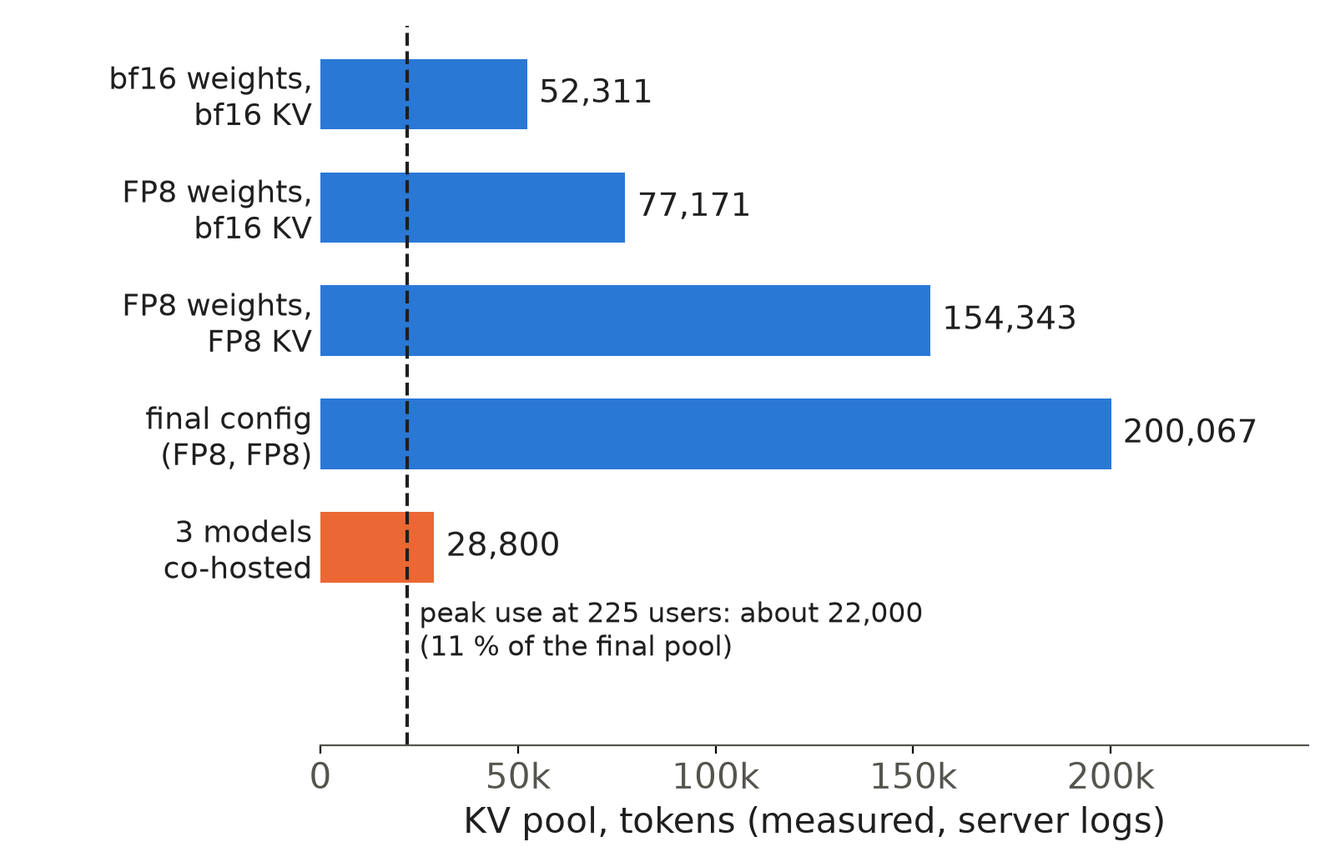
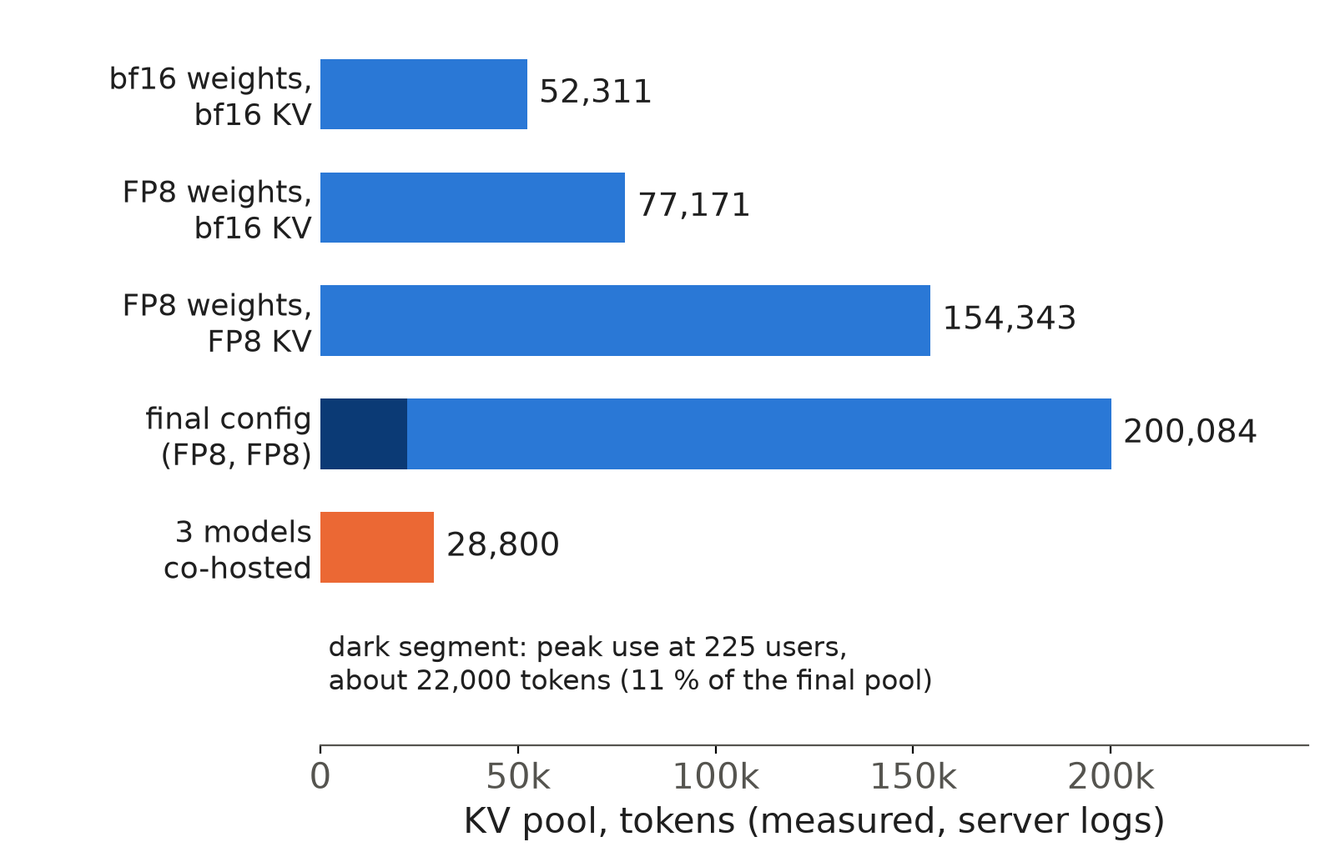
Sync revised lessons 01-03 (review fixes); sync strips the repo-ids comment

Changed region(s): [[0.25, 0.6769, 0.7188, 0.8], [0.2188, 0.4615, 0.3125, 0.5538], [0.9062, 0.4615, 0.9375, 0.5231]]

diff --git a/src/content/posts/llm-serving-bench/01-anatomy-of-one-l4.md b/src/content/posts/llm-serving-bench/01-anatomy-of-one-l4.md
@@ -9,11 +9,9 @@ project: llm-serving-bench
 tags: [l4, sglang, qwen3-4b, kv-cache, capacity, fp8]
 ---
 
-## 1. Motivation
+One NVIDIA L4 is the unit of this series: cost per user is its hourly price divided by its users. Here we show what the card holds when SGLang serves Qwen3-4B-Instruct-2507, and how many users it carries.
 
-One NVIDIA L4 is the unit of this series, and the cost per user is its hourly price divided by its users. Here we show what the card holds in memory when SGLang serves Qwen3-4B-Instruct-2507, and how many users it carries. Two of the user counts look comparable and are not (Section 4.4).
-
-## 2. Key results
+## Key results
 
 | | first baseline | final configuration |
 |---|---|---|
@@ -27,9 +25,9 @@ One NVIDIA L4 is the unit of this series, and the cost per user is its hourly pr
 
 At 225 users the pool peaked at 11 % full and about 2 requests were in flight, against 4.5 for the baseline. The jump from 16 to 225 is mostly a workload change.
 
-## 3. What the card holds
+## 1. What the card holds
 
-### 3.1 Bytes per token
+### 1.1 Bytes per token
 
 A serving GPU holds the weights, the KV cache (one key and one value vector per layer for every token a request has seen) and working memory. With round numbers, a 24 GB card with 8 GB of weights and 4 GB of working memory leaves 12 GB for the cache: 120,000 tokens at 100 KiB each, 240,000 at 50 KiB.
 
@@ -48,9 +46,9 @@ def kv_bytes_per_token(config_path: str, kv_bytes: int = 2) -> int:
     return cfg["num_hidden_layers"] * kv_heads * head_dim * 2 * kv_bytes   # 2 = K and V
 ```
 
-For Qwen3-4B: 36 layers x 8 KV heads x 128 x 2 x 2 bytes = 144 KiB per token in bf16, 72 KiB in FP8 (computed). A request of our mean size, 2,004 prompt and 96 answer tokens, holds about 155 MB of FP8 cache (computed).
+For Qwen3-4B: 36 layers x 8 KV heads x 128 x 2 x 2 bytes = 144 KiB per token in bf16, 72 KiB in FP8 (computed). A request of our mean size, 2,004 prompt and 96 answer tokens, holds about 155 MB (148 MiB) of FP8 cache (computed).
 
-### 3.2 The split, read from the log
+### 1.2 The split, read from the log
 
 SGLang logs each allocation at start. With our final flags:
 
@@ -82,19 +80,19 @@ The log's "GB" is GiB: 52,311 tokens x 147,456 bytes = 7.18 GiB, exactly the K p
 
 *Figure 1. Memory of one L4, from the start-up logs. "Other" is the pool step beyond K and V, unnamed gaps and CUDA graphs.*
 
-FP8 frees 3.4 GiB of weights and halves the bytes per token. The pool step also takes 2.14 GiB (bf16) and 2.05 GiB (FP8) beyond K and V, and the log does not say for what.
+FP8 frees 3.4 GiB of weights and halves the bytes per token. The pool step also takes 2.14 GiB (bf16) and 2.05 GiB (FP8) beyond K and V, which the log does not name.
 
-### 3.3 How the pool grew
+### 1.3 How the pool grew
 
-The pool grew 3.8 times. In a feasibility test FP8 weights gave 77,171 tokens and an FP8 cache on top 154,343. No measurement explains the last step to about 200,000. Our reading, not tested: the bf16 log with a 4,096-token chunk still had 4.76 GiB free after the pool step, the FP8 log with a 256-token chunk only 1.73 GiB, so a smaller chunk seems to let SGLang reserve less working memory. A manual memory fraction did not help: 0.8 changed nothing, 0.85 ran out of memory (bf16).
+The pool grew 3.8 times. In a feasibility test FP8 weights gave 77,171 tokens and an FP8 cache on top 154,343. A probe that changed only the prefill chunk, 4,096 to 256 tokens, raised SGLang's automatic memory fraction from 0.684 to 0.827 and the pool from 154,343 to 199,770 (measured). Our reading, not tested: a smaller chunk needs less working memory, so SGLang reserves less. A manual memory fraction did not help: 0.8 did not change attainment, 0.85 ran out of memory (bf16).
 
 The pool is not the limit: 200,000 tokens hold 95 requests of the mean size, but at 225 users at most 9 ran at once.
 
-## 4. How many users
+## 2. How many users
 
-### 4.1 The pass rule
+### 2.1 The pass rule
 
-A request counts when its time to first token (TTFT, mostly prompt prefill) and its time per output token (TPOT) both stay inside a tier. Rag and code get twice the TTFT limit.
+A request counts when its time to first token (TTFT, mostly prompt prefill) and its time per output token (TPOT) both stay inside a tier. Rag (questions over retrieved documents) and code get twice the TTFT limit.
 
 | tier | TTFT chat | TTFT rag, code | TPOT |
 |---|---|---|---|
@@ -102,7 +100,7 @@ A request counts when its time to first token (TTFT, mostly prompt prefill) and 
 | standard | 1.0 s | 2.0 s | 50 ms |
 | relaxed | 2.0 s | 4.0 s | 100 ms |
 
-Attainment is the share of all requests, failures included, that meet both limits. A level passes at 0.90; with three seeds, mean minus sd must reach 0.90.
+Attainment is the share of all requests, failures included, that meet both limits. A level passes at 0.90; with three seeds (runs with different random request streams), mean minus standard deviation (sd) must reach 0.90.
 
 A user is a closed loop: send a turn, read the answer (response time R), think for a time Z, repeat. Little's law links users U to requests in flight C:
 
@@ -114,9 +112,9 @@ C = 4, R = 2 s, Z =  10 s  ->  U = 4 x  12 / 2 =  24
 
 The same 4 requests in flight serve 204 or 24 users (hypothetical numbers): a user count needs its think time.
 
-### 4.2 How we measure
+### 2.2 How we measure
 
-No standard benchmark tool runs closed-loop users with think time and scores SLO tiers, so a custom script is needed:
+No standard tool runs closed-loop users with think time and scores SLO tiers, so a custom script is needed:
 
 ```python
 async def user(server, think_time, record):
@@ -140,9 +138,9 @@ def attainment(records, tier, warmup_s, window_s):
     return len(ok) / len(window)                   # failures count as misses
 ```
 
-The staggered start matters: without it, a 0.6B model scored 30 users at strict instead of 104. We score requests sent in a window of at least 600 s after a warm-up, 300 to 1,400 requests per level.
+The staggered start matters: without it, a 0.6B model scored 30 users at strict instead of 104. Scoring windows follow a warm-up: 600 s with about 290 to 1,300 requests per level in the final runs, 300 s with 116 requests at 16 users in the baseline.
 
-### 4.3 Two edges: 16 and 225
+### 2.3 Two edges: 16 and 225
 
 ![SLO attainment against users. Left, bf16, synthetic load, 30 s think time: standard 0.966 at 16 users, 0.699 at 17. Right, FP8, assistant mix: standard 0.906 at 225 users, 0.886 at 260; strict never reaches 0.90.](./figures/01_slo_vs_users.png)
 
@@ -150,56 +148,50 @@ The staggered start matters: without it, a 0.6B model scored 30 users at strict 
 
 The baseline ran bf16 with Triton attention on a synthetic load: 1,000 prompt and 250 output tokens, one turn per user, Z = 30 s. Standard passed at 16 users. Strict served 0, because one request alone had a TPOT of about 31 ms. Relaxed passes at 28 users (0.948); our first write-up said 30, but 0.897 at 30 users misses the rule at three decimals.
 
-The final configuration adds FP8, a prefill chunk of 256 tokens, FlashInfer and mixed chunks; the assistant mix is multi-turn chat, rag and code with lengths from public traces. Think time is a lognormal fitted to request gaps in a public trace: median 116 s (raw trace median 103 s), mean 351.5 s, cut at 3,600 s. At 225 users standard is 0.906 ± 0.017, so mean minus sd is 0.889: borderline. At 260 it fails (0.886 ± 0.021); 240 was never run. Strict fails even at 150 users (0.752).
+The final configuration adds FP8, a prefill chunk of 256 tokens, FlashInfer attention kernels and mixed chunks (prefill chunks batched with decode); the assistant mix is multi-turn chat, rag and code with lengths from public traces. Think time is a lognormal fitted to request gaps in a public trace: median 116 s (raw trace median 103 s), mean 351.5 s, cut at 3,600 s. At 225 users standard is 0.906 ± 0.017, so mean minus sd is 0.889: borderline. At 260 it fails (0.886 ± 0.021); 240 was never run. Strict fails even at 150 users (0.752).
 
-### 4.4 From 16 to 225 is a change of workload
+### 2.4 From 16 to 225 is a change of workload
 
 Five things changed: precision, engine flags, prompts (1,000 tokens to a mean of 2,004), answers (250 to a mean of 96) and mean think time (30 s to 351.5 s). By Little's law, users per request in flight are (R + Z) / R (computed). The baseline had R = 11 s and Z = 30 s, so 3.7. At the final edge about 2 requests were in flight (measured 1.7 to 2.2), so R = 2 x 351.5 / (225 - 2) = 3.2 s and each request stands for about 112 users.
 
-Changing Z alone at R = 11 s multiplies that by 8.9; changing R alone at Z = 30 s, by 2.8. Think time accounts for about 9 to 11 times, the shorter response time for about 3. FP8, chunked prefill and shorter answers all shortened R, and these runs cannot separate them.
+Changing Z alone at R = 11 s multiplies that by 8.8; changing R alone at Z = 30 s, by 2.8. Think time accounts for about 9 to 11 times, the shorter response time for about 3. FP8, chunked prefill and shorter answers all shortened R, and these runs cannot separate them.
 
-The clean split needs bf16 on the assistant mix, which we lack. The one run, at U = 214, scored 0.416 at standard but never reached steady state (think times not cut, all users started together, a load-generator bug fixed later) and was not re-run.
+The clean split needs bf16 on the assistant mix, which we lack. The one run, at U = 214, scored 0.416 at standard but never reached steady state (uncut think times and a simultaneous start, a load-generator bug fixed later) and was not re-run.
 
-### 4.5 What sets the edge at 225
+### 2.5 What sets the edge at 225
 
-The misses are first-token misses. In one seed at 225 users, 13 of 15 standard misses were TTFT-only and 9 came from prompts of 4k tokens or more. Over three seeds, standard scored 0.92 for prompts under 1k tokens, 0.94 for 1-3k and 0.79 for 3k or more. With no long prefill pending, about 2 % of requests missed, against 16-58 % with one pending. That is a correlation; head-of-line blocking by long prefills is our reading. The GPU was 78 % busy.
+The misses are first-token misses. In one earlier run at 225 users (standard 0.956), 13 of 15 standard misses were TTFT-only, 9 came from prompts of 4k tokens or more, and the GPU was 78 % busy. In runs at 150 to 300 users, 2 to 3 % of requests missed with no long prefill pending, against 16-58 % with one pending. That is a correlation; head-of-line blocking (short requests queued behind a long prefill) is our reading. Over the three seeds at 225, standard scored 0.92 for prompts under 1k tokens, 0.94 for 1-3k and 0.79 for 3k or more.
 
-With the baseline's 4,096-token chunk, long prefills also stalled decode: inter-token gap p99 about 230 ms, median 41 ms. Strict fails on both latencies: 4k+ prompts (13 % of requests) need 0.83-1.36 s of TTFT on an empty L4, and TPOT p90 under load is 32-35 ms.
+In the baseline, each 1,000-token prefill also paused decode: inter-token gap p99 about 230 ms, median 41 ms. Strict fails on both latencies: 4k+ prompts (13 % of requests) need 0.83-1.36 s of TTFT on an empty L4, and TPOT p90 under load is 32-35 ms.
 
-## 5. Limits
+## 3. Limits
 
 - The edge rests on 3 seeds at 225 and 260 users; 240 was never measured.
-- The bf16 baseline is one seed on a synthetic workload with an older load generator; no verified bf16 result exists on the assistant mix.
+- The bf16 baseline is one seed on a synthetic workload with an older load generator.
 - User counts depend on the think-time model, fitted from gaps between requests because no trace records think time.
 - The price is an assumption: 0.80 USD is the GPU alone, about 1.1 USD adds the container's CPU and memory.
-- The automatic memory fraction was not recorded.
 - The three-seed runs used two cloud platforms; parity was checked with two fixed-concurrency probes (TPOT 33.6 against 33.9 ms at C = 1), not a load run.
 
-## 6. Reproduce
+## 4. Reproduce
 
-Final edge: run 24a, 3 seeds at U=225, about 40 minutes of one L4, about $0.7 (estimate). Server as in Section 3.2, load as in Section 4.2, 10-minute levels.
+Our runs, September and October 2026, on one NVIDIA L4 (24 GB): Qwen3-4B-Instruct-2507 in bf16 and its FP8 checkpoint, SGLang 0.5.20 for the final runs.
 
-```bash
-make dry PLAN=one-l4-edge-seeds SESSION_NO=24a   # free rehearsal on a fake engine
-make session VENDOR=modal PLAN=one-l4-edge-seeds SESSION_NO=24a HOURS=1.6   # one L4
-```
+1. Server: the command of Section 1.2. For the bf16 baseline, use the bf16 checkpoint with `--attention-backend triton --sampling-backend pytorch` and SGLang's default chunk of 4,096 tokens.
+2. Memory: the `grep` of Section 1.2 for the split, `nvidia-smi` for the card total. For the chunk probe, start the FP8 server twice, with `--chunked-prefill-size 4096` and `256`, and compare `mem_fraction_static` in the printed server arguments and `#tokens` in the KV line.
+3. Load: the closed-loop users of Section 2.2 with a lognormal think time (median 116 s, mean 351.5 s, cut at 3,600 s), a 30 s warm-up and a 600 s scoring window, 3 seeds at 225 and 260 users, scored with the tiers of Section 2.1. The baseline used one turn per user, 1,000 prompt and 250 output tokens, 30 s think time and 300 s windows.
+4. Cost: the three seeds at 225 users took about 40 minutes of one L4, about $0.7 (estimate); the baseline sweep took about 98 minutes.
 
-bf16 baseline: run g2-baseline-qwen3-4b/20260927-151950, about 98 minutes of one L4. FP8 memory log: run 29a. Other runs: 8a, 12a, 3 (U=214).
+## 5. Sources
 
-## 7. Sources
+- Qwen3-4B-Instruct-2507 model card and config (36 layers, 8 KV heads, head size 128): https://huggingface.co/Qwen/Qwen3-4B-Instruct-2507; FP8 checkpoint: https://huggingface.co/Qwen/Qwen3-4B-Instruct-2507-FP8.
+- SGLang server arguments (`--chunked-prefill-size`, `--mem-fraction-static`, `--enable-mixed-chunk`, `--attention-backend`): https://docs.sglang.io/advanced_features/server_arguments.html.
+- Zheng et al., "SGLang: Efficient Execution of Structured Language Model Programs", NeurIPS 2024: https://arxiv.org/abs/2312.07104.
+- Ye et al., "FlashInfer: Efficient and Customizable Attention Engine for LLM Inference Serving", 2025: https://arxiv.org/abs/2501.01005.
+- Little, "A Proof for the Queuing Formula: L = λW", Operations Research 9(3), 1961.
+- Wang et al., "BurstGPT: A Real-world Workload Dataset to Optimize LLM Serving Systems", 2024 (session gaps behind the think-time fit): https://arxiv.org/abs/2401.17644.
+- Azure LLM inference traces, 2024 (prompt and answer lengths of the assistant mix): https://github.com/Azure/AzurePublicDataset.
+- Our runs, September and October 2026: SGLang start-up logs, `nvidia-smi` and per-request records behind every measured number above.
 
-- SLO results table: rows 3 (U=214), 8a, 12a, 24a.
-- Final capacity summary: users per $/h at 1.1 USD.
-- Server logs of the bf16 baseline and of run 29a (memory figures, Figure 1); nvidia-smi of run 29a (23,034 MiB).
-- Baseline levels U=1 to U=32 (Figure 2, left).
-- Note 04: bf16 baseline, in-flight count, inter-token gaps, the 30-user relaxed figure.
-- Note 06: platform parity probes.
-- Note 11: misses by type and prompt length, utilisation and tok/s, strict tier.
-- Notes 13 and 20: think time, trace median 103 s, fitted median 116 s, mean 351 s.
-- Note 15: run 12a with error bars.
-- Note 26, "Memory split": the ~22.5 GiB usable.
-- CHANGELOG Steps 5 (staggered starts), 12 (U=214), 98 (24a, cost), 115 (24a by prompt length, in flight, KV peak), 164 (0.80 USD per L4-hour, 281 users per $/h).
-- Report chapters 4, 5 and 9: pool of run 24a (peak 9 running), the 28-user relaxed reading, feasibility-test pool sizes, the memory-fraction probe.
-- Figure scripts 01_memory_split.py and 01_slo_vs_users.py, data inline with sources.
+
 
 Written with Claude Code. Numbers checked against the runs under Sources.

diff --git a/src/content/posts/llm-serving-bench/03-kv-cache-and-paged-attention.md b/src/content/posts/llm-serving-bench/03-kv-cache-and-paged-attention.md
@@ -9,14 +9,14 @@ project: llm-serving-bench
 tags: [kv-cache, paged-attention, prefix-cache, offload, l4, sglang, vllm]
 ---
 
-Take one chat request of 2,100 tokens (2,004 prompt, 96 answer) served by Qwen3-4B on one NVIDIA L4, a 24 GB GPU. By the end of its answer the GPU holds about 155 MB of cached keys and values for it, with an FP8 cache. Below we derive that number, show how engines lay it out, and report what a bigger cache changed.
+Take one chat request of 2,100 tokens (2,004 prompt, 96 answer) served by Qwen3-4B on one NVIDIA L4, a 24 GB GPU. By the end of its answer the GPU holds about 155 MB (148 MiB) of cached keys and values for it, with an FP8 cache. Below we derive that number, show the layout, and test a bigger cache.
 
 ## Key results
 
 | what | number | kind |
 |---|---|---|
 | KV cache per token, Qwen3-4B | 144 KiB bf16, 72 KiB FP8 | computed |
-| KV pool on one L4, final config | 200,067 tokens, about 95 requests of 2,100 tokens | measured; 95 computed |
+| KV pool on one L4, final config | 200,084 tokens, about 95 requests of 2,100 tokens | measured; 95 computed |
 | peak pool use at 225 users | 11 % | measured |
 | empty space, 2,100-token request | 74 % in an 8,192-token slot, 0.6 % in 16-token blocks | computed |
 | prefix cache on, U = 498 | 14.9 % of prompt tokens hit, standard 0.695 -> 0.777 | measured, 1 seed |
@@ -50,11 +50,11 @@ The engine agrees: SGLang logged an FP8 pool of 200,084 tokens with K and V of 6
 
 At startup the engine turns most memory left after weights and working space into a **KV pool**, a fixed number of token slots shared by all requests. With round numbers, 10 GB left for an FP8 cache gives 10 x 10^9 / 73,728 = 135,634 tokens (hypothetical).
 
-![Bar chart: KV pool on one L4 grows from 52,311 tokens (bf16) to 200,067 (final FP8 config); peak use at 225 users was about 22,000](./figures/03_pool_tokens.png)
+![Bar chart: KV pool on one L4 grows from 52,311 tokens (bf16) to 200,084 (final FP8 config); peak use at 225 users was about 22,000](./figures/03_pool_tokens.png)
 
-*KV pool on one L4 from SGLang server logs. The last two blue bars use the same dtypes; the step from 154,343 to 200,067 comes from other server settings, which we did not break down. Dashed line: peak use at 225 users.*
+*KV pool on one L4 from SGLang server logs. The last two blue bars share dtypes; in a probe that changed only the prefill chunk, 4,096 to 256 tokens, the pool grew from 154,343 to 199,770 (measured; a later run logged 200,084). Dark segment: peak use at 225 users.*
 
-FP8 weights added about 25,000 tokens, and halving the bytes per token then gave 154,343 tokens, 2.95 times the bf16 pool. The final pool of 200,067 tokens is 14.8 GB of the 24 GB card (computed).
+FP8 weights added about 25,000 tokens; halving the bytes per token then gave 154,343, 2.95 times the bf16 pool. The final pool of 200,084 tokens is 13.7 GiB (14.8 GB) of the 22.5 GiB the card reports (computed).
 
 That pool was never the limit. At 225 users, our capacity edge, the log showed at most 9 requests running and peak use of 11 % of the pool, while standard attainment was 0.906 ± 0.017 over 3 seeds. Our reading is that prefill compute was the limit. A small pool does hurt: with three models co-hosted on one L4 the LLM's pool shrank to about 28,800 tokens, 98 % in use, and standard attainment fell to 0.508 ± 0.028 (3 seeds). That run could not separate KV pressure from the GPU time the vision model took.
 
@@ -66,29 +66,29 @@ Early engines gave each request one contiguous slot sized for its longest possib
 
 *The same request in a contiguous slot and in 16-token blocks. Physical block ids are illustrative.*
 
-A request takes a new block only at a block boundary, so at most 15 slots sit empty. Ours needs ceil(2,100 / 16) = 132 blocks, with 12 slots empty, 0.6 % (computed). One block of Qwen3-4B in FP8 is 16 x 72 KiB = 1,152 KiB. Sixteen is vLLM's default block size; we checked it in the v0.32.0 source while our runs used 0.30.0. The paper reports 2 to 4 times the throughput of FasterTransformer and Orca at the same latency, on its own hardware; we did not reproduce that.
+A request takes a new block only at a block boundary, so at most 15 slots sit empty. Ours needs ceil(2,100 / 16) = 132 blocks, with 12 slots empty, 0.6 % (computed). One block of Qwen3-4B in FP8 is 16 x 72 KiB = 1,152 KiB. Sixteen is vLLM's default block size; we checked it in the v0.32.0 source while our runs used 0.30.0. The paper reports 2 to 4 times the throughput of FasterTransformer and Orca on its own hardware; we did not reproduce that.
 
-The table also lets requests share a prefix. vLLM and TensorRT-LLM key each full block by a hash of all tokens up to it; SGLang keeps a token-level radix tree. If chat turn 1 was 40 tokens, turn 2 re-sends it: two full blocks (32 tokens) hit and skip prefill, and the 8-token partial block is recomputed.
+The table also lets requests share a prefix. vLLM and TensorRT-LLM key each full block by a hash of all tokens up to it; SGLang keeps a token-level radix tree. In vLLM, if chat turn 1 was 40 tokens, turn 2 re-sends it: two full blocks (32 tokens) hit and skip prefill, and the 8-token partial block is recomputed.
 
 ## 4. Prefix cache and offload on one L4
 
-Our load generator re-sends the whole conversation on every chat turn, so 48 to 59 % of prompt tokens repeat the same session's earlier tokens; only 0.2 to 1.0 % come from other sessions. At U = 498 (10 minutes, one seed each) we ran SGLang's radix cache on and off. With it on, 14.9 % of prompt tokens were hits, and standard attainment rose from 0.695 to 0.777, 8.2 points.
+Our load generator re-sends the whole conversation on every chat turn, so 48 to 59 % of prompt tokens repeat the same session's earlier tokens; only 0.2 to 1.0 % come from other sessions. At U = 498 (10 minutes, one seed each) we ran SGLang's radix cache (its prefix cache) on and off. With it on, 14.9 % of prompt tokens were hits, and standard attainment rose from 0.695 to 0.777, 8.2 points.
 
-Our reading of the low hit rate is that histories are evicted before their owner returns. A CPU simulation of the same request stream, with the final pool of 199,770 tokens, showed that at 520 users the pool holds about 2 minutes of new KV traffic, while think time has a median of 116 s and a mean of 351 s.
+Our reading of the low hit rate is that histories are evicted before their owner returns. A CPU simulation of the same request stream, with a pool of about 200,000 tokens, showed that at 520 users the pool holds about 2 minutes of new KV traffic, while think time has a median of 116 s and a mean of 351 s.
 
-A host-RAM tier keeps evicted blocks and copies them back over PCIe on a hit. The simulation says such a tier helps only when it is several times the GPU pool. Our first test broke that rule: an 8 GB host pool holds 108,506 tokens, 0.70 times the on/off run's 154,343-token GPU pool, and gave a 14.6 % hit against 14.9 % without it. A 64 GB host pool is 4.34 times the 200,084-token GPU pool, and SGLang's log counted 868,056 host tokens, which matches 64 x 10^9 / 73,728.
+A host-RAM tier keeps evicted blocks and copies them back over PCIe on a hit. The simulation says such a tier helps only when it is several times the GPU pool. Our first test broke that rule: an 8 GB host pool holds 108,507 tokens, 0.70 times the on/off run's 154,343-token GPU pool, and gave a 14.6 % hit against 14.9 % without it. A 64 GB host pool is 4.34 times the 200,084-token GPU pool, and SGLang's log counted 868,056 host tokens, which matches 64 x 10^9 / 73,728: its host "GB" is decimal.
 
 ```bash
 # vLLM: FP8 KV, prefix caching, 64 GiB host tier, report cached tokens per request
 vllm serve Qwen/Qwen3-4B-Instruct-2507-FP8 --kv-cache-dtype fp8_e4m3 --enable-prefix-caching \
   --kv-offloading-size 64 --kv-offloading-backend native --enable-prompt-tokens-details
 
-# SGLang: radix cache on by default; 64 GB host tier, write-through
+# SGLang: radix cache on by default; 64 GB host tier, write-through (blocks copied to host as written)
 python -m sglang.launch_server --model-path Qwen/Qwen3-4B-Instruct-2507-FP8 --kv-cache-dtype fp8_e4m3 \
   --enable-hierarchical-cache --hicache-size 64 --hicache-write-policy write_through --enable-cache-report
 ```
 
-Each engine ran with and without the host tier: FP8 cache, 20-minute warm-up, 10-minute window, one seed per cell, vLLM 0.30.0 and SGLang 0.5.20. Read each row against its own baseline only.
+Each engine ran with and without the host tier: FP8 cache, 20-minute warm-up, 10-minute window, one seed per cell, vLLM 0.30.0 and SGLang 0.5.20.
 
 | engine, U | prefix hit | standard | strict |
 |---|---|---|---|
@@ -99,9 +99,9 @@ Each engine ran with and without the host tier: FP8 cache, 20-minute warm-up, 10
 
 The hit rate rose by 11.5 to 13.2 points in every row. For SGLang at 260 users the simulation had predicted 23 -> 36 % and 16 % less prefill work; we measured 23.1 -> 34.6 % and 15 % less, with prefill busy itself modelled from measured token counts at 0.2 ms per uncached token.
 
-Attainment did not move reliably. On vLLM every change sits inside the 0.02 to 0.05 noise of a single L4 run,. On SGLang at U = 520 standard attainment rose by 0.19 with one seed, unconfirmed until we run 3 seeds. The simulation adds one structural reason: at 520 users, 45 % of prompts of 3,000 tokens or more are first turns, which no cache can serve.
+Attainment did not move reliably. On vLLM every change sits inside the 0.02 to 0.05 noise of a single L4 run. On SGLang at U = 520 standard attainment rose by 0.19 with one seed, unconfirmed until we run 3 seeds. The simulation adds one structural reason: at 520 users, 45 % of prompts of 3,000 tokens or more are first turns, which no cache can serve.
 
-Hits are a token-weighted share of `usage.prompt_tokens_details.cached_tokens`, which both engines return per request with the flags above; for vLLM we checked that it includes tokens loaded from host RAM. A custom script collects it:
+Hits are a token-weighted share of `usage.prompt_tokens_details.cached_tokens`, which both engines return per request with the flags above; it includes tokens loaded from host RAM (vLLM: checked in its log; SGLang: read in its source). A custom script collects it:
 
 ```python
 cached = prompt = 0
@@ -126,17 +126,25 @@ prefix_hit = cached / prompt if prompt else None
 
 ```bash
 python -c "print(2*36*8*128*2, 2*36*8*128*1)"          # 147456 73728
-python -c "print(200067/2100, 64e9/73728, 8e9/73728)"    # 95.3, 868055.6, 108506.9
+python -c "print(200084/2100, 64e9/73728, 8e9/73728)"    # 95.3, 868055.6, 108506.9
 ```
 
-GPU runs, all 1 x L4 on Modal: session 4 (radix on and off, 8 GB host tier), 24a (pool usage at 225 users), 29a and 29b (SGLang radix against 64 GB host tier, about 3.5 USD estimated), 32a, 32b, 33a and 33b (vLLM offload, about 2 USD per pair, estimated). The offload simulation runs on CPU in about 11 minutes.
+Our runs, October 2026, all on one NVIDIA L4 (24 GB) with Qwen3-4B-Instruct-2507 FP8 and an FP8 KV cache:
+
+1. Pool size: start SGLang 0.5.20 and read `#tokens` in its "KV Cache is allocated" line; peak use comes from its periodic token-usage lines under load.
+2. Prefix cache: SGLang with the radix cache on and with `--disable-radix-cache`, then with an 8 GB and a 64 GB host tier (the commands of Section 4); vLLM 0.30.0 with and without `--kv-offloading-size 64`. Each cell: closed-loop users re-sending the whole conversation, 20-minute warm-up, 10-minute window, one seed; prefix hit with the script of Section 4.
+3. Cost: about 3.5 USD for the SGLang host-tier pair and about 2 USD per vLLM pair (estimates). The offload simulation, a CPU replay of the same request stream through simulated GPU and host pools, runs in about 11 minutes.
 
 ## 7. Sources
 
-- CHANGELOG Step 158 (SGLang 64 GB host tier), Steps 169 and 170 (vLLM offload at U = 320 and 520).
-- Notes 07 §4 (radix cache on and off, 8 GB host tier), 20 (reuse structure, offload simulation, ratio rule), 26 (three models on one L4), 32 §4 (pool and usage of run 24a), 41 §1 and §3.1 (paged blocks, prefix keys, vLLM block size 16).
-- Report Chapters 2, 4, 5, 7 and 8.
-- Runs: 20261009-1254_session4_quant-cache, 20261014-2347_session24a_one-l4-edge-seeds, 20261023-1225_session29a_one-l4-hicache-radix, 20261023-1225_session29b_one-l4-hicache-64; sessions 32a, 32b, 33a, 33b on the outputs repository.
-- Kwon et al., "Efficient Memory Management for Large Language Model Serving with PagedAttention", https://arxiv.org/abs/2309.06180.
+- Kwon et al., "Efficient Memory Management for Large Language Model Serving with PagedAttention", SOSP 2023: https://arxiv.org/abs/2309.06180.
+- Zheng et al., "SGLang: Efficient Execution of Structured Language Model Programs" (RadixAttention), NeurIPS 2024: https://arxiv.org/abs/2312.07104.
+- vLLM automatic prefix caching design: https://docs.vllm.ai/en/latest/design/prefix_caching/; KV offloading: https://docs.vllm.ai/en/latest/features/kv_offloading_usage.html.
+- SGLang hierarchical cache (HiCache) design: https://docs.sglang.io/advanced_features/hicache_design.html.
+- TensorRT-LLM KV cache and block reuse: https://nvidia.github.io/TensorRT-LLM/latest/features/kvcache.html.
+- Qwen3-4B-Instruct-2507 model card and config: https://huggingface.co/Qwen/Qwen3-4B-Instruct-2507; FP8 checkpoint: https://huggingface.co/Qwen/Qwen3-4B-Instruct-2507-FP8.
+- Our runs, October 2026: SGLang and vLLM server logs and per-request records behind every measured number above.
+
+
 
 Written with Claude Code. Numbers checked against the runs under Sources.

diff --git a/src/content/posts/llm-serving-bench/02-trtllm-token-budget.md b/src/content/posts/llm-serving-bench/02-trtllm-token-budget.md
@@ -22,7 +22,7 @@ On one L40S, TensorRT-LLM (TRT-LLM, NVIDIA's serving engine) met our standard la
 
 At 1,350 and 1,518 users the engine produced 257 output tokens per second from a KV pool of 477,952 tokens, at 48 % GPU use. A half-idle GPU pointed at a setting.
 
-Standard tier: time to first token (TTFT) at most 1 s for chat, 2 s for rag and code; time per output token (TPOT) at most 50 ms. A load level passes when 0.90 of requests meet both.
+Standard tier: time to first token (TTFT) at most 1 s for chat, 2 s for rag (retrieval-augmented) and code; time per output token (TPOT) at most 50 ms. A load level passes when 0.90 of requests meet both.
 
 ## 2. The token budget
 
@@ -35,7 +35,7 @@ vllm serve <model> --max-num-batched-tokens 256
 python -m sglang.launch_server --model-path <model> --chunked-prefill-size 256
 ```
 
-Assume 56 requests are decoding when a 6,000-token prompt arrives. At budget 256 the prompt gets 200 tokens per step and waits 30 steps for its first token; at 2,048 it waits 4. At about 30 ms per step, as we measured for TRT-LLM on the L40S, that is 900 ms of prefill before any queueing (computed). A 2,048-token step costs more, by an amount we did not measure.
+Assume 56 requests are decoding when a 6,000-token prompt arrives. At budget 256 the prompt gets 200 tokens per step and waits 30 steps for its first token; at 2,048 it waits 4. At about 30 ms per step (TRT-LLM's median TPOT on the L40S, 29.6 ms; steps not profiled), that is 900 ms of prefill before any queueing (computed). A 2,048-token step costs more, by an amount we did not measure.
 
 ![Bar charts: with 56 decode tokens, a step holds 200 prompt tokens at budget 256 and 1,992 at 2,048, so a 6,000-token prompt waits 30 steps against 4.](./figures/02_budget_step.png)
 
@@ -55,11 +55,11 @@ Single runs move by 0.02 to 0.05, so at 1,518 and 1,687 users TRT-LLM and vLLM t
 
 Why the same 256 hurt only TRT-LLM is our reading, not a profile: SGLang's median TPOT on the L40S, roughly one decode step, was 8.8 to 10.7 ms, against about 30 ms per TRT-LLM step.
 
-The new budget left TPOT unsolved. At light load standard was 0.79 and 0.96, with TPOT p90 at 66 ms against the 50 ms limit (median 29.6 ms). A single stream ran at 28.6 ms per token, slow for an L40S; per-step or CPU overhead is an untested hypothesis.
+The new budget left TPOT unsolved. At light load standard was 0.79 and 0.96, with TPOT p90 at 66 ms against the 50 ms limit. A single stream ran at 28.6 ms per token, slow for an L40S; per-step or CPU overhead is an untested hypothesis.
 
 ## 4. Lesson
 
-The same flag value in two engines is a different setting when they spend their steps differently. Before blaming kernels, split TTFT by prompt length at light load; if it climbs with length, as 0.14 s to 1.02 s did for us, tune the budget per engine.
+The same flag value in two engines is a different setting when they spend their steps differently. Before blaming kernels, split TTFT by prompt length at light load; if it climbs with length (0.14 s to 1.02 s for us), tune the budget per engine.
 
 ```python
 def ttft_by_length(records, edges=(500, 2000, 6000)):
@@ -73,26 +73,29 @@ def ttft_by_length(records, edges=(500, 2000, 6000)):
 
 ## 5. Limits
 
-Our L4 screen used the same budget of 256: TRT-LLM scored 0.667 at 260 users and 0.672 at 320, against 0.861 for vLLM at 320 (a 3-seed mean against one seed). We stopped TRT-LLM on the L4 and now read that verdict as doubtful; a rerun at 2,048 has not run.
+Our L4 screen used the same budget of 256: TRT-LLM scored 0.667 at 260 users and 0.672 at 320, against 0.861 for vLLM at 320 (a 3-seed mean against one seed). We stopped TRT-LLM on the L4 and now doubt that verdict; a rerun at 2,048 has not run.
 
-On the L4 one stream alone ran at 80.7 ms per token, against about 23 ms for vLLM. One request barely fills a 256 budget, so the budget does not explain it; it also clashes with 0.667 of requests passing the 50 ms TPOT limit. We do not know why.
+On the L4 one stream alone ran at 80.7 ms per token, against about 23 ms for vLLM. One request barely fills a 256 budget, so the budget does not explain it; it also clashes with at least 0.667 of requests passing the 50 ms TPOT limit. We do not know why.
 
-The L40S raw runs are outside our repository; we checked against the changelog entry and report chapter written from them. Every TRT-LLM number is one seed, host KV offload off. The L40S cost is an estimate: half of $7.95 measured for these runs plus another experiment.
+We checked the L40S numbers against summaries written at run time, not raw logs. Every TRT-LLM number is one seed, host KV offload off. The L40S cost is an estimate: about $3.5 of $7.95 measured for these runs and another experiment (our split).
 
 ## 6. Reproduce
 
-Model `qwen3-4b-fp8`, the engine command of Section 2 with `--max_num_tokens 256` or `2048`, and a closed-loop load generator that records every streamed token.
+Our runs, October 2026: TensorRT-LLM 1.3.0rc29, vLLM 0.30.0 and SGLang 0.5.20, Qwen3-4B-Instruct-2507 FP8 weights and FP8 KV cache.
 
-- L4 screen, budget 256: run `20261014-0200_session19b_trtllm-l4-screen`, about 0.5 GPU hours, about $1.5 (estimate).
-- L40S, sessions 30a and 30c (budget 256), 30d and 30e (budget 2,048): about 2.6 GPU hours, about $3.5 (estimate).
+1. Server: the TRT-LLM command of Section 2 with `--max_num_tokens 256` or `2048`, `--max_batch_size 256 --max_seq_len 32768`; chunked prefill, FP8 KV cache and block reuse in the options file. vLLM and SGLang as in Section 2, budget 256.
+2. Load: closed-loop users that stream every token and record the send time, the first token and the last token; standard tier as in Section 1; one seed per level.
+3. Check: TTFT by prompt length at light load with the function of Section 4; a single stream alone for the per-token floor.
+4. Cost: the L4 screen took about 0.5 GPU hours, about $1.5; the four L40S runs about 2.6 GPU hours, about $3.5 (estimates).
 
 ## 7. Sources
 
-- CHANGELOG Step 80 (L4 screen, stop decision) and Step 167 (L40S runs 30a, 30c, 30d, 30e).
-- Note 22, sections 1 and 6 to 8 (`max_num_tokens` semantics, gate, screen result); note 15 (vLLM L4 baseline).
-- Run `20261014-0200_session19b_trtllm-l4-screen`: `smoke.json` (TPOT 80.7 ms), `validate/engine_cmd.txt` (`--max_num_tokens 256`).
-- Report chapter 4 (SGLang TPOT on the L40S) and chapter 7 (TensorRT-LLM token budget).
-- Compute log rows for 19b and 30a to 30e; GPU optimization plan item 1.2 (L4 rerun, not run).
-- Figure data: CHANGELOG Step 167 (`02_attainment.py`); worked-example assumptions (`02_budget_step.py`).
+- TensorRT-LLM, tuning `max_batch_size` and `max_num_tokens`: https://nvidia.github.io/TensorRT-LLM/performance/performance-tuning-guide/tuning-max-batch-size-and-max-num-tokens.html; `trtllm-serve`: https://nvidia.github.io/TensorRT-LLM/latest/commands/trtllm-serve/trtllm-serve.html.
+- vLLM `serve` arguments (`--max-num-batched-tokens`): https://docs.vllm.ai/en/latest/cli/serve/.
+- SGLang server arguments (`--chunked-prefill-size`): https://docs.sglang.io/advanced_features/server_arguments.html.
+- Qwen3-4B-Instruct-2507 FP8 model card: https://huggingface.co/Qwen/Qwen3-4B-Instruct-2507-FP8.
+- Our runs, October 2026: per-request records, engine commands and a single-stream smoke test behind every measured number above.
+
+
 
 Written with Claude Code. Numbers checked against the runs under Sources.
